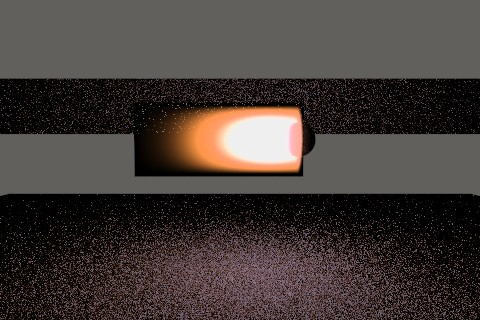
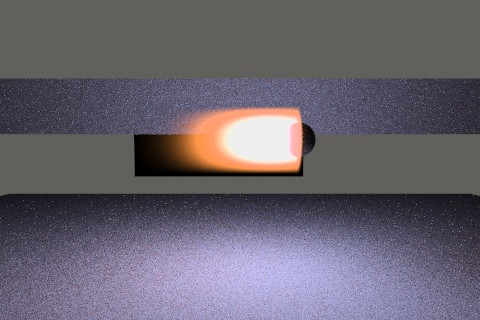
Participating media (P4): volumes-as-lights via equiangular NEE
Emissive media (cone-mode flames, constant σe volumes) now register as
light sources during transformScene and become directly sampleable from
both surface BSDFs and in-scattering events inside other volumes.
Without this NEE, surfaces near a flame relied on cosine-weighted BSDF
bounces randomly hitting the cone — a near-zero-probability event that
left the floor under a jet flame as a black field of fireflies.

sampleVolumeLightForNEE picks one registered emissive volume uniformly,
then equiangular-samples the cone axis (Kulla & Fajardo 2012) so the
chosen point's distance pdf is ∝ 1/r². For Constant-mode media the
"line" collapses to the SceneObject's location — equivalent to a point
light. σe at the sampled point is multiplied by the medium's own Beer-
Lambert transmittance from sample point back to hit, so very thick smoke
attenuates its own glow correctly. Shadow rays skip transparent
bounding meshes (the volume's own shell) and emissive geometry; opaque
walls block as usual.

Wired into DiffuseShader (Lambert NEE), GlossyShader (GGX NEE — no MIS
yet, the BSDF strategy almost never hits the cone axis anyway), and
tracePath's scatter event (phase-function-weighted). Jet-flame scenes
now show smooth warm-tinted floor illumination instead of the noisy
black field; the cone halo on the floor is the volumetric source
casting real light.

diff --git a/src/raygen/rayrenderer.cpp b/src/raygen/rayrenderer.cpp
@@ -149,6 +149,7 @@ void RayRenderer::clearTransformedScene() {
     this->transformedMeshes.clear();
     this->areaLightSources.clear();
     this->pointLightSources.clear();
+    this->emissiveVolumeSources.clear();
 }
 
 void RayRenderer::transformScene() {
@@ -172,10 +173,25 @@ void RayRenderer::transformScene() {
     if (this->scene->globalMedium != NULL) {
         this->scene->globalMedium->bake(this->viewMatrix);
     }
+    // Emissive-volume registration (Phase 4 NEE light list). Anything with
+    // interiorMedium that has cone intensity > 0 (procedural) or non-zero
+    // sigma_e_eff (constant) becomes a sampleable light. Pointers borrow
+    // the SceneObject's medium — Scene/SceneObject own the lifetime.
     std::function<void(SceneObject*)> bakeObj = [&](SceneObject* obj) {
         if (obj == NULL) return;
         if (obj->interiorMedium != NULL) {
             obj->interiorMedium->bake(this->viewMatrix);
+            const HomogeneousMedium* m = obj->interiorMedium;
+            const bool emissiveCone = (m->emissionMode == HomogeneousMedium::EmissionMode_Cone)
+                                      && (m->coneIntensity > 0.0f);
+            const bool emissiveConst = (m->emissionMode == HomogeneousMedium::EmissionMode_Constant)
+                                       && (m->sigma_e_eff != color3::zero);
+            if (emissiveCone || emissiveConst) {
+                EmissiveVolumeSource ev;
+                ev.object = obj;
+                ev.medium = m;
+                this->emissiveVolumeSources.push_back(ev);
+            }
         }
         for (SceneObject* child : obj->getObjects()) bakeObj(child);
     };
@@ -1384,6 +1400,19 @@ color3 RayRenderer::tracePath(const Ray& ray, void* shaderParam) const {
             direct += Li * phase * (1.0f / pdfEnv);
         }
 
+        // Phase 4: volumetric-emitter NEE for in-scattering. The sampler
+        // accepts any direction at a scatter site (we pass surfaceNormalProxy
+        // = -ray.dir which it treats as "no rejection"); the equiangular
+        // estimator gives a sharp draw on a flame's cone axis even through
+        // dense smoke, where BSDF-style indirect bounces practically never
+        // hit the right line.
+        vec3 vDir; float vDist; float vPdf = 0.0f; color3 vLe;
+        if (this->sampleVolumeLightForNEE(scatterPos, surfaceNormalProxy,
+                                          vDir, vDist, vPdf, vLe) && vPdf > 0.0f) {
+            const float phase = medium->phasePdf(-ray.dir, vDir);
+            direct += vLe * phase * (1.0f / vPdf);
+        }
+
         // HG sampling is proportional to the phase value, so phase/pdf == 1
         // and the indirect return needs no extra weight.
         const vec3 nextDir = medium->samplePhase(ray.dir, randomValue(), randomValue());
@@ -1658,6 +1687,144 @@ bool RayRenderer::sampleEnvmapForNEE(const vec3& hit, const vec3& surfaceNormal,
     outDir = envDir;
     outPdfEnv = envPdf;
     outLi = this->sampleEnvironment(envDir);
+    return true;
+}
+
+bool RayRenderer::sampleVolumeLightForNEE(const vec3& hit, const vec3& surfaceNormal,
+                                          vec3& outDir, float& outDist,
+                                          float& outPdf, color3& outLe) const {
+    const int N = (int)this->emissiveVolumeSources.size();
+    if (N <= 0) return false;
+
+    // Uniform-pick a registered emissive volume. With N > 1 the per-volume
+    // pdf factor 1/N is folded into outPdf below so the caller doesn't have
+    // to know the scene's volume count.
+    const int idx = rand() % N;
+    const EmissiveVolumeSource& ev = this->emissiveVolumeSources[idx];
+    const HomogeneousMedium* m = ev.medium;
+    if (m == NULL) return false;
+
+    // Build the line segment we're sampling against. For Cone-mode media,
+    // it's the cone axis from origin to origin+axis*length (in render space,
+    // already baked). For Constant-mode media we approximate the volume as
+    // a degenerate point at the SceneObject's world location transformed —
+    // not great but Constant-mode emitters are rare and Phase 5 territory
+    // (proper volume bounding box sampling).
+    vec3 segA, segB;
+    if (m->emissionMode == HomogeneousMedium::EmissionMode_Cone) {
+        segA = m->coneOriginR;
+        segB = m->coneOriginR + m->coneAxisR * m->coneLength;
+    } else {
+        // Fall back: take object location through the view matrix as a
+        // single point. With a zero-length segment, equiangular collapses
+        // to a single direction sample — acts like a point light.
+        const vec3 loc = ev.object->location;
+        const vec4 lw(loc.x, loc.y, loc.z, 1.0f);
+        const vec4 lv = lw * this->viewMatrix;
+        segA = vec3(lv.x, lv.y, lv.z);
+        segB = segA;
+    }
+
+    // Equiangular line sampling (Kulla & Fajardo 2012, "Importance Sampling
+    // Techniques for Path Tracing in Participating Media"). Project hit→seg
+    // axis to find the closest point on the (infinite) line, then
+    // parameterise the visible segment by angle from `hit`. Sampling θ
+    // uniformly within [θA, θB] gives p(t) = D / ((θB-θA)·(D² + t²)) where
+    // D is the perpendicular distance and t is the signed offset along the
+    // axis from the closest-point. PDF in solid angle then reads as
+    // cosθ-cancelled when we convert via 1/r² later, so we just need pdfDir
+    // = pdf_t · (r²/cosθ_along_axis) — simpler to track pdf in distance and
+    // convert to solid angle at return.
+    const vec3 segDir = segB - segA;
+    const float segLen = segDir.length();
+    vec3 axis;
+    if (segLen > 1e-6f) {
+        axis = segDir * (1.0f / segLen);
+    } else {
+        axis = vec3(0.0f, 0.0f, -1.0f);  // unused when segLen == 0
+    }
+
+    // tA, tB = parametric bounds of the segment, signed offsets from the
+    // foot of perpendicular dropped from `hit`.
+    const vec3 toA = segA - hit;
+    const float a_along = dot(toA, axis);
+    const vec3 perp = toA - axis * a_along;
+    const float D = perp.length();
+    if (!(D > 1e-5f) && segLen <= 1e-6f) return false;  // hit is exactly on a degenerate light
+
+    const float tA = a_along;
+    const float tB = a_along + segLen;
+    const float thetaA = atanf(tA / fmaxf(D, 1e-5f));
+    const float thetaB = atanf(tB / fmaxf(D, 1e-5f));
+    if (!(fabsf(thetaB - thetaA) > 1e-6f) && segLen > 1e-6f) return false;
+
+    // Sample θ uniformly, convert to t via inverse cdf.
+    const float u = randomValue();
+    const float theta = thetaA + u * (thetaB - thetaA);
+    const float tSamp = D * tanf(theta);
+    const vec3 sampPoint = (segLen > 1e-6f)
+        ? (segA + axis * (tSamp - a_along))
+        : segA;
+
+    // Distance pdf for this sampler:
+    //   p(t) = D / ((θB - θA) · (D² + t²))
+    // Convert to solid-angle pdf (per Kulla & Fajardo): p_ω = p(t) · r² / 1
+    // because we're sampling a 1-D line, not a surface — the geometric
+    // factor for a line element is r/D × dt = ds (arc length), and
+    // p_ω = p(t) · r² simplifies on the line geometry.
+    const vec3 toSamp = sampPoint - hit;
+    const float r2 = toSamp.length2();
+    const float r  = sqrtf(r2);
+    if (!(r > 1e-5f)) return false;
+    const vec3 dir = toSamp * (1.0f / r);
+
+    // We don't pre-reject behind the shading hemisphere here — the caller
+    // multiplies by the BRDF·cosθ (surface) or phase function (volume) and
+    // those drop to zero on their own for invalid geometry. Letting through
+    // marginal directions costs one shadow ray; rejecting here would mask
+    // legitimate near-grazing illumination on glossy lobes.
+    (void)surfaceNormal;
+
+    // Shadow ray: any opaque non-emissive triangle between hit and the
+    // sampled point occludes. Transparent (the volume's own bounding mesh)
+    // and refractive get skipped — we want the light to "shine through"
+    // those even though the hit point may be next to one. maxt clipped just
+    // before the sampled point.
+    const Ray shadowRay = ThicknessRay(hit, toSamp);
+    const float maxt = 0.99999f;
+    const bool blocked = this->bvh.intersectAny(shadowRay, maxt, [](const RenderMeshTriangle* rt) {
+        const auto& mat = rt->object.material;
+        if (mat.emission > 0.0f) return false;
+        return mat.transparency < 0.01f && mat.refraction <= 0.1f;
+    });
+    if (blocked) return false;
+
+    // σe at the sampled point. For Cone, this includes the inner→outer
+    // gradient and the density-field modulator. For Constant it's
+    // sigma_e_eff (uniform inside the bounding mesh). Apply the medium's
+    // own transmittance from the sampled point back to `hit` along the
+    // shadow ray — for emissive-only media (σt=0) this is 1, so the
+    // common case stays cheap.
+    color3 sigmaE = m->emissionAt(sampPoint);
+    if (sigmaE == color3::zero) return false;
+    if (m->sigma_t_hero > 0.0f) {
+        // Approximate self-attenuation through the medium. Underestimate is
+        // OK (lights look slightly brighter than they should for very thick
+        // smoke); a ratio-tracking estimator across the segment is the
+        // proper Phase 5 refinement.
+        const color3 Tr = m->transmittance(r);
+        sigmaE = color3(sigmaE.r * Tr.r, sigmaE.g * Tr.g, sigmaE.b * Tr.b);
+    }
+
+    const float pdfT = D / (fmaxf(1e-6f, fabsf(thetaB - thetaA)) * (D * D + tSamp * tSamp));
+    // Convert distance-pdf to solid-angle pdf and fold in the volume-pick
+    // probability so callers can MIS against this exact value.
+    const float pdfOmega = pdfT * r2 * (float)N;
+
+    outDir  = dir;
+    outDist = r;
+    outPdf  = pdfOmega;
+    outLe   = sigmaE;
     return true;
 }
 

diff --git a/src/raygen/rayrenderer.h b/src/raygen/rayrenderer.h
@@ -59,11 +59,22 @@ typedef void (*MeshBakedCallback(const SceneObject& obj, const Image& img))();
 
 struct LightSource {
 	const SceneObject* object = NULL;
-	
+
 	vec3 transformedLocation;
 	vec3 transformedNormal;
-	
+
 	LightSource() { }
+};
+
+// Phase 4: an emissive participating-medium attached to a SceneObject is also
+// a light source — registered here so surface and volume NEE can sample it.
+// The medium pointer is just a borrow of the SceneObject's interiorMedium
+// (Scene owns the lifetime); the bounding-mesh reference is what we use as
+// the predicate to skip self-shadowing in shadow rays.
+struct EmissiveVolumeSource {
+	const SceneObject* object = NULL;
+	const class HomogeneousMedium* medium = NULL;
+	EmissiveVolumeSource() { }
 };
 
 class RayTransformedMesh {
@@ -153,6 +164,7 @@ private:
 	std::vector<const RayTransformedMesh*> transformedMeshes;
 	std::vector<LightSource> areaLightSources;
 	std::vector<LightSource> pointLightSources;
+	std::vector<EmissiveVolumeSource> emissiveVolumeSources;
 	
 	void initRenderThreadContext(RenderThreadContext* ctx);
     void renderThread(const RenderThreadContext& ctx, const int threadId);
@@ -275,6 +287,23 @@ public:
 	                           vec3& outDir, float& outPdfLight, color3& outLe) const;
 	bool sampleEnvmapForNEE(const vec3& hit, const vec3& surfaceNormal,
 	                        vec3& outDir, float& outPdfEnv, color3& outLi) const;
+	// Phase 4: NEE for emissive participating media. Picks one of the
+	// registered emissive volumes and equiangular-samples a point along its
+	// cone axis (or bbox centre for Constant-mode media). On success returns
+	//   outDir       — direction from `hit` to the sample point
+	//   outDist      — distance along that direction
+	//   outPdf       — solid-angle pdf (light-side of MIS)
+	//   outLe        — σe at the sampled point, multiplied by medium tr along
+	//                  the segment from hit to sample point (transmittance
+	//                  through the volume itself; outside-segment Tr is left
+	//                  to the caller's current medium)
+	// Returns false when no emissive volumes exist, the geometry rejects
+	// (passing through opaque geometry on the way), the sampled σe is zero,
+	// or `surfaceNormal` faces away from outDir (caller can pass any normal-
+	// like direction; pass -ray.dir for volumetric scatter sites).
+	bool sampleVolumeLightForNEE(const vec3& hit, const vec3& surfaceNormal,
+	                             vec3& outDir, float& outDist,
+	                             float& outPdf, color3& outLe) const;
 	color3 lambertTraceLights(const vec3& hit, const vec3& objectNormal) const;
 
 	// Effective area of the light strategy's pdf at a given emitter triangle:

diff --git a/src/raygen/bsdf.cpp b/src/raygen/bsdf.cpp
@@ -71,6 +71,20 @@ color3 DiffuseShader::shade(BSDFParam& param) {
                   + renderer.traceLight(interInfo.hit, param.vi.normal)
                   + renderer.traceEnvmapLight(interInfo.hit, param.vi.normal, param.bsdfSampledPdf);
 
+    // Phase 4: NEE against emissive participating media. Equiangular line
+    // sampling gives a 1/r²-weighted draw on the cone axis, then we evaluate
+    // σe at the sample point (already medium-self-attenuated) and add the
+    // Lambertian direct term L = (albedo/π) · Le · cosθ / pdfω. albedo is
+    // applied at return so we just multiply by cosθ/(π·pdf) here.
+    {
+        vec3 vDir; float vDist; float vPdf = 0.0f; color3 vLe;
+        if (renderer.sampleVolumeLightForNEE(interInfo.hit, param.vi.normal,
+                                              vDir, vDist, vPdf, vLe) && vPdf > 0.0f) {
+            const float cosL = fmaxf(0.0f, dot(vDir, param.vi.normal));
+            color += vLe * (cosL * (float)(1.0 / M_PI) / vPdf);
+        }
+    }
+
     param.throughput = savedT;
     param.bsdfSampledPdf = savedBsdfPdf;
 
@@ -267,6 +281,21 @@ color3 GlossyShader::shade(BSDFParam& param) {
                 const float pb2 = pdfBsdf * pdfBsdf;
                 const float wEnv = pe2 / (pe2 + pb2);
                 direct += Li * fCos * (wEnv / pdfEnv);
+            }
+        }
+    }
+
+    // Phase 4: volumetric-emitter NEE. Equiangular line sampling produces
+    // a 1/r²-weighted draw on the cone axis. We don't pair this with a BSDF
+    // strategy (a glossy lobe is unlikely to randomly hit the line) so MIS
+    // weight is 1 — slight overestimate is bounded by the firefly clamp.
+    {
+        vec3 vDir; float vDist; float vPdf = 0.0f; color3 vLe;
+        if (renderer.sampleVolumeLightForNEE(interInfo.hit, normal,
+                                              vDir, vDist, vPdf, vLe) && vPdf > 0.0f) {
+            color3 fCos; float pdfBsdf = 0.0f;
+            if (evalGlossy(vDir, fCos, pdfBsdf)) {
+                direct += vLe * fCos * (1.0f / vPdf);
             }
         }
     }